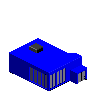
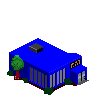
Added Iwei's duplex.

Changed region(s): [[0.06, 0.54, 0.9, 0.96], [0.69, 0.57, 0.81, 0.69]]

diff --git a/js/properties.js b/js/properties.js
@@ -28,7 +28,7 @@ function propertyClass() {
 
     this.init = function(propertyTileMapIndex) {
         this.propertyTileMapIndex = propertyTileMapIndex;
-        let randomZone = randomIntFromInterval(1, 5);
+        let randomZone = randomIntFromInterval(1, 6);
         if (randomZone == 1) {
             this.zoned = "Commercial";
         } else if (randomZone == 2) {
@@ -42,6 +42,9 @@ function propertyClass() {
         } else if (randomZone == 5) {
             this.zoned = "Commercial";
             this.building = "OfficeBuilding";
+		} else if (randomZone == 6) {
+            this.zoned = "Residential";
+            this.building = "basicDuplex";
 		}
         this.reset();
     }
@@ -53,6 +56,9 @@ function propertyClass() {
 		} else if (this.building == "apartment") {
             this.isoBuildingHeight = 50;
             drawBitmapAtLocation(buildingPic, isoDrawX, isoDrawY - this.isoBuildingHeight);
+        } else if (this.building == "basicDuplex") {
+            this.isoBuildingHeight = 50;
+            drawBitmapAtLocation(building2Pic, isoDrawX, isoDrawY - this.isoBuildingHeight);
         } else if (this.building == "OfficeBuilding") {
             this.isoBuildingHeight = 50;
             drawBitmapAtLocation(building3Pic, isoDrawX, isoDrawY - this.isoBuildingHeight);

diff --git a/js/ImageLoading.js b/js/ImageLoading.js
@@ -36,7 +36,7 @@ function loadImages() {
 			{varName: propertyPic, theFile: "landMarker.png"},
 			{varName: restuarantPic, theFile: "restaurant.png"},
 			{varName: buildingPic, theFile: "building.png"},
-			{varName: building2Pic, theFile: "building2.png"},
+			{varName: building2Pic, theFile: "regular_duplex.png"},
 			{varName: building3Pic, theFile: "building3.png"},
 			{varName: commercialForSaleSignPic, theFile: "commercialForSaleSign.png"},
 			{varName: residentialForSaleSignPic, theFile: "residentialForSaleSign.png"},
